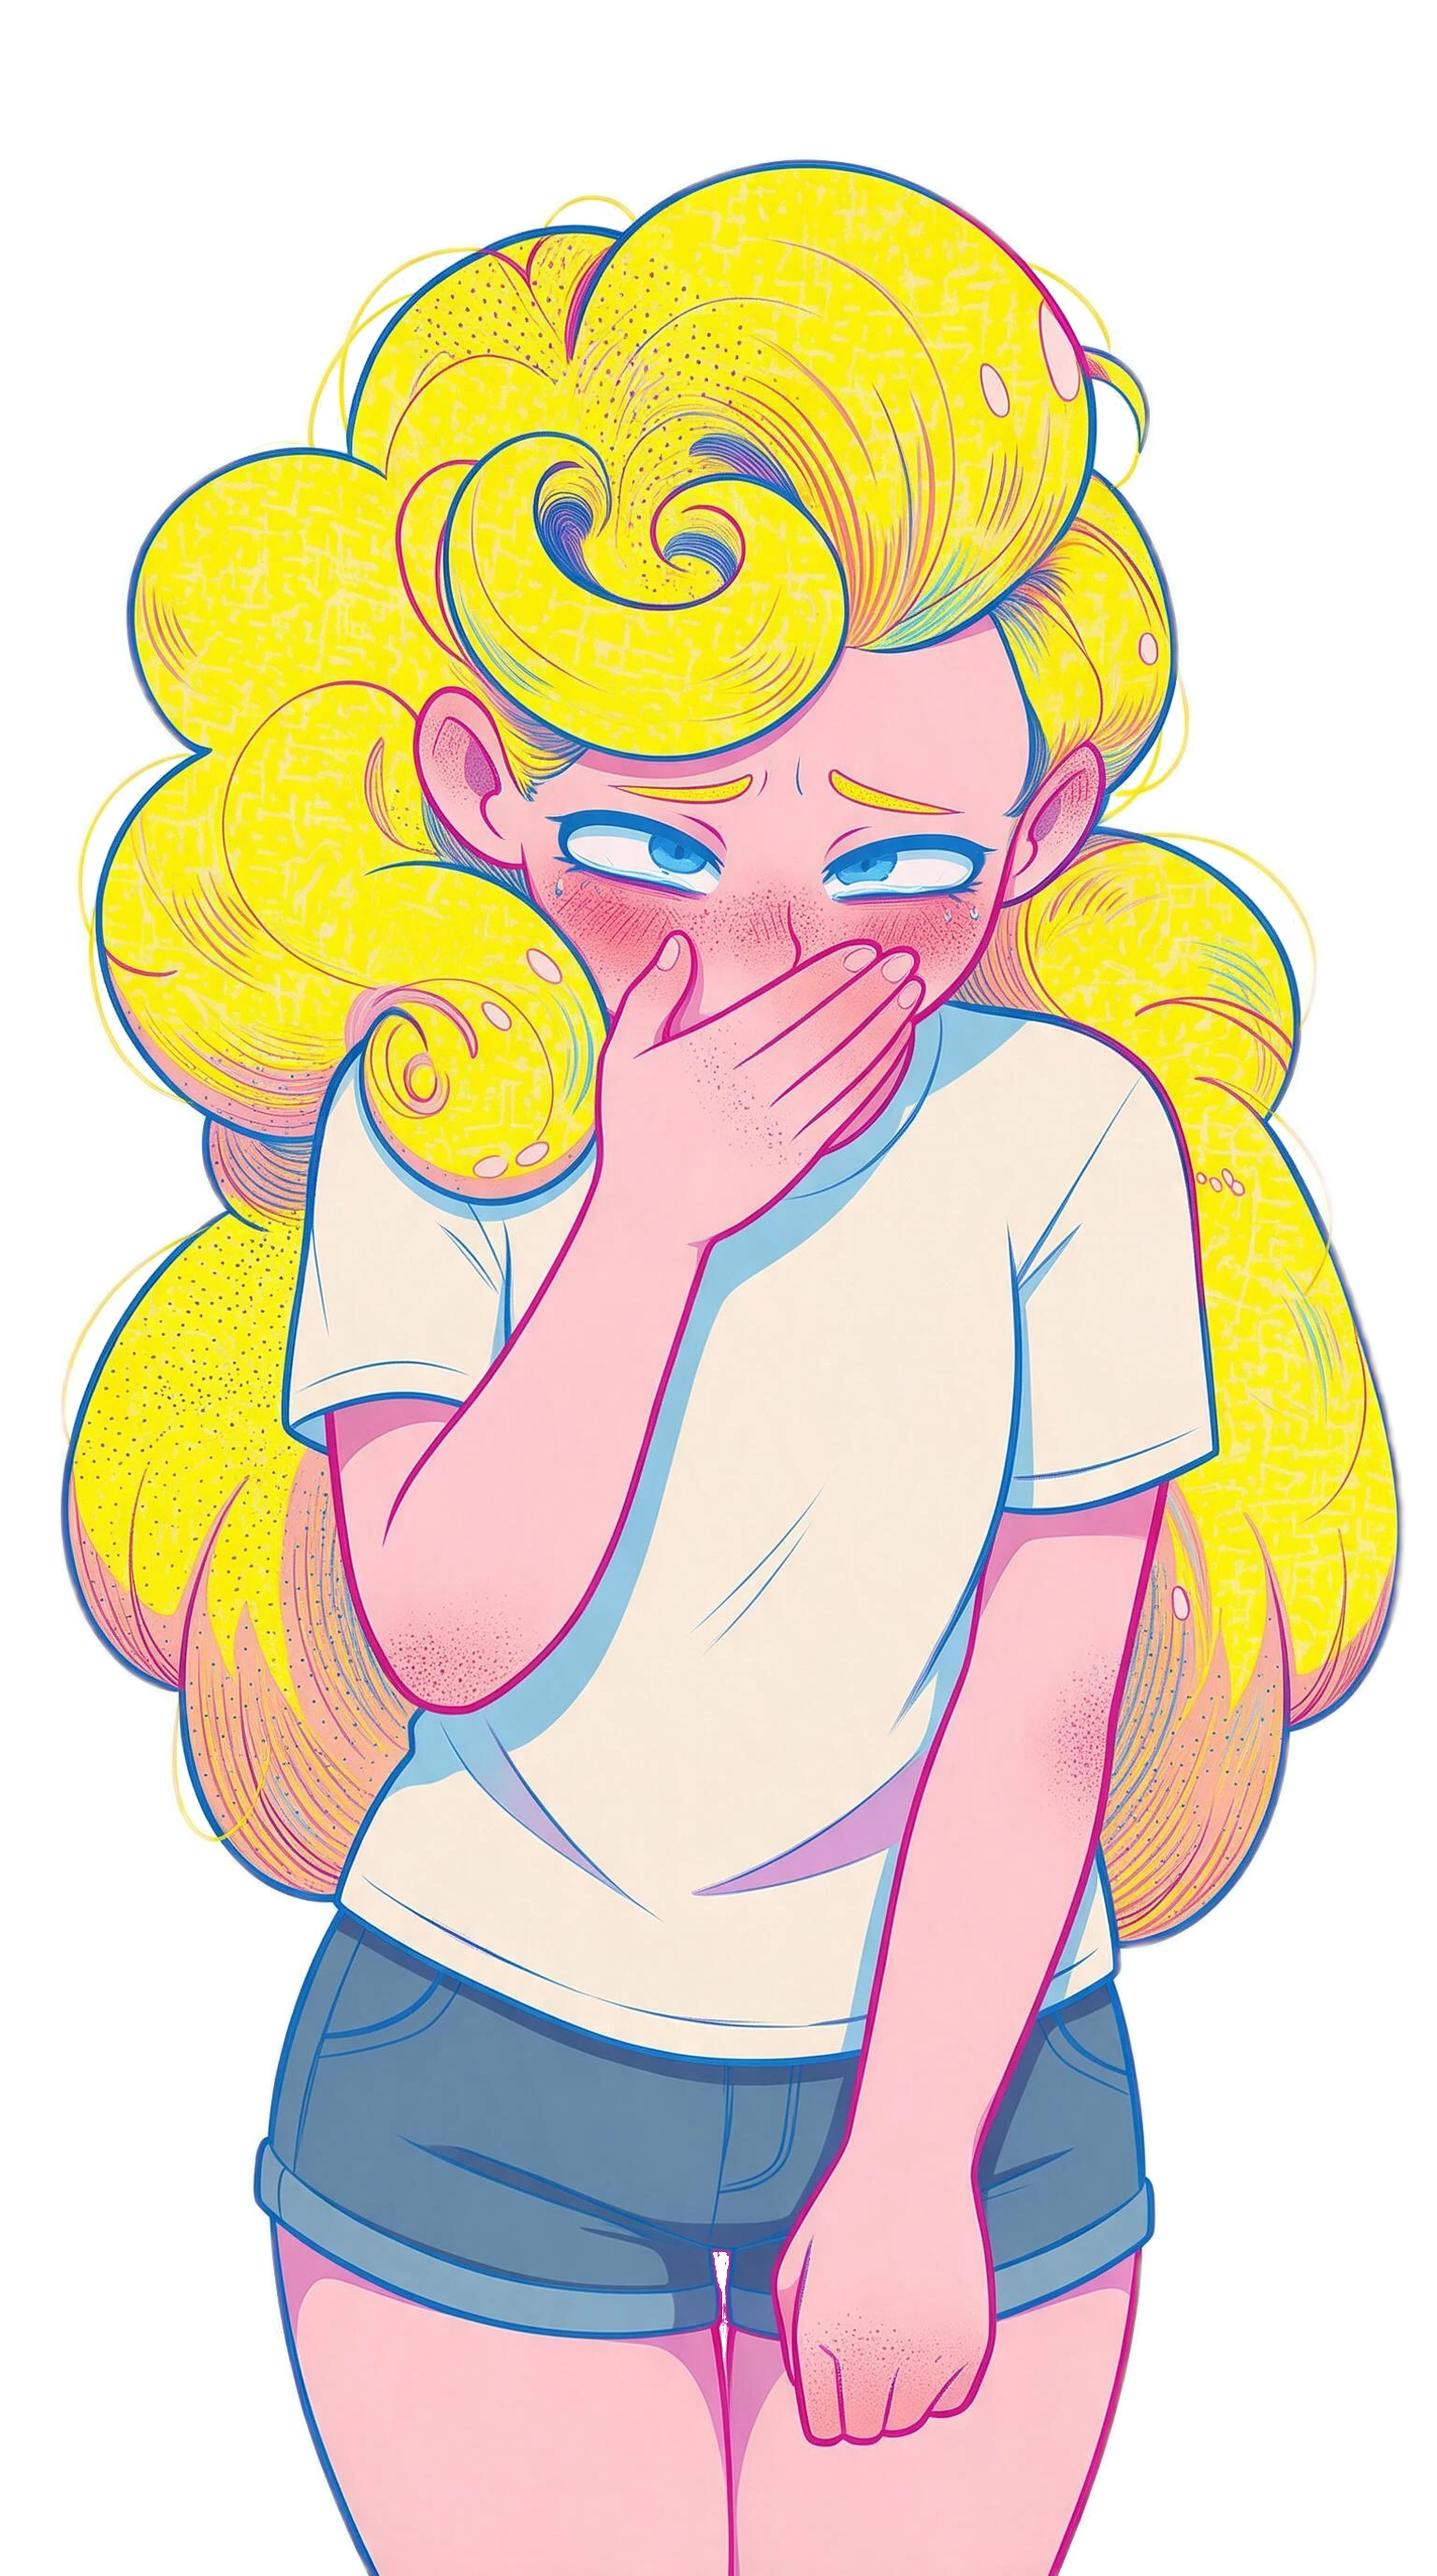
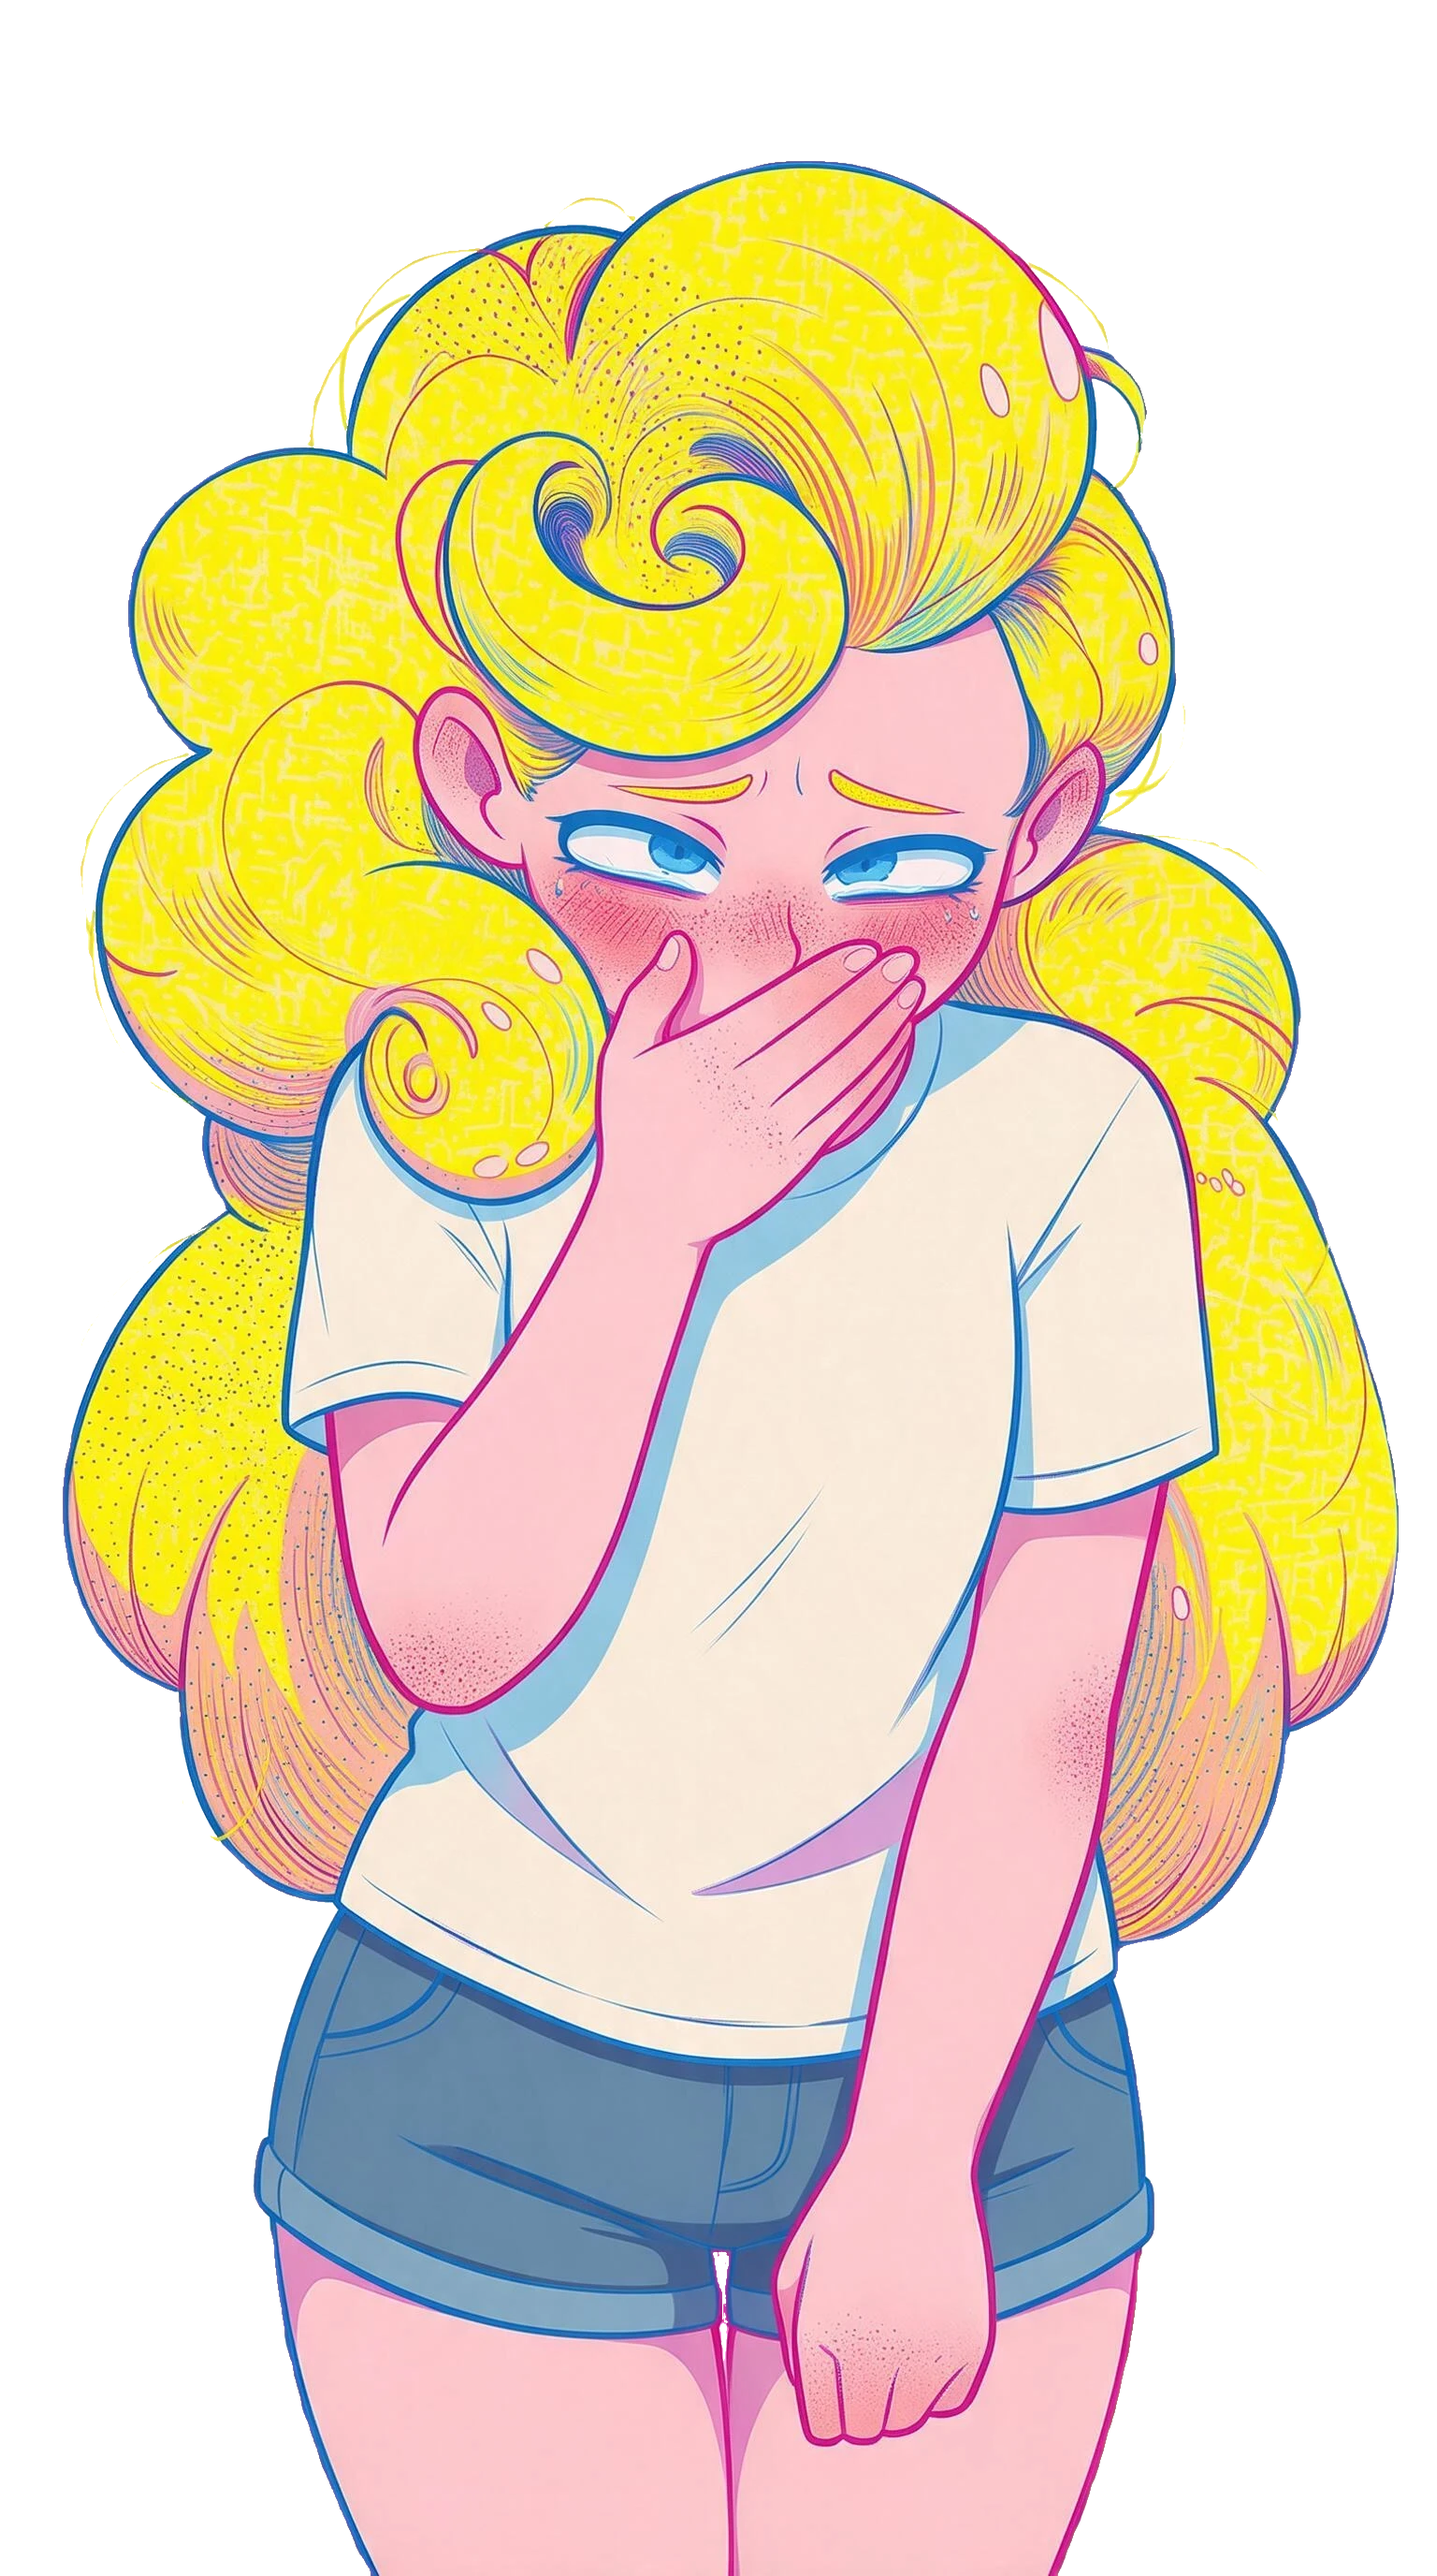
Старт у причала в бухте; чистка ореола спрайтов; отладка свёрнута; флаги: мгновенный отклик, затенение без прозрачности; брызги без ошибки add_child

diff --git a/tools/defringe_sprites.py b/tools/defringe_sprites.py
@@ -1,0 +1,56 @@
+#!/usr/bin/env python3
+"""Чистка ореола у вырезанных спрайтов (assets/story/*.webp).
+
+После удаления белого фона по краю силуэта остаются светлые полупрозрачные
+пиксели. Скрипт «заливает» их снаружи: от прозрачной области внутрь, но только
+по бледным (почти белым) или полупрозрачным пикселям и не глубже DEPTH px.
+Заливка упирается в контур и насыщенные цвета, поэтому волосы, кожа и одежда
+не страдают. Нужны pillow, numpy, scipy.
+
+    python3 tools/defringe_sprites.py            # все спрайты на месте
+    python3 tools/defringe_sprites.py a.webp     # только указанные
+"""
+import glob
+import sys
+
+import numpy as np
+from PIL import Image
+from scipy import ndimage
+
+DEPTH = 18  # насколько глубоко ореол может заходить от края, px
+PALE_SAT = 0.34  # насыщенность ниже — «бледный» пиксель (остаток фона)
+PALE_LUMA = 150
+SOFT_ALPHA = 150  # прозрачнее этого — всегда ореол
+
+
+def clean(path: str) -> int:
+    rgba = np.array(Image.open(path).convert("RGBA"))
+    rgb = rgba[..., :3].astype(np.float32)
+    alpha = rgba[..., 3]
+    top = rgb.max(-1)
+    sat = (top - rgb.min(-1)) / np.maximum(top, 1.0)
+    luma = rgb @ np.array([0.299, 0.587, 0.114], dtype=np.float32)
+    outside = alpha < 16
+    passable = (alpha < SOFT_ALPHA) | ((sat < PALE_SAT) & (luma > PALE_LUMA))
+    reached = ndimage.binary_dilation(
+        outside, structure=np.ones((3, 3), bool), iterations=DEPTH, mask=passable | outside
+    )
+    removed = reached & ~outside
+    keep = (alpha >= 16) & ~removed
+    # Мягкая кромка в 1 px, чтобы срез не был «лесенкой».
+    edge = ndimage.gaussian_filter(keep.astype(np.float32), 0.8)
+    new_alpha = np.where(keep, alpha * np.clip(edge * 1.6 - 0.3, 0.0, 1.0), 0).astype(np.uint8)
+    rgba[..., 3] = new_alpha
+    # Цвет под прозрачностью — от ближайшего видимого пикселя: при
+    # масштабировании по краю не подмешивается белый.
+    solid = new_alpha > 0
+    _, nearest = ndimage.distance_transform_edt(~solid, return_indices=True)
+    rgba[..., :3] = rgba[..., :3][nearest[0], nearest[1]]
+    Image.fromarray(rgba).save(path, "WEBP", quality=90, alpha_quality=100, method=6, exact=True)
+    return int(removed.sum())
+
+
+if __name__ == "__main__":
+    files = sys.argv[1:] or sorted(glob.glob("assets/story/*.webp"))
+    for name in files:
+        print(name, "убрано пикселей:", clean(name))
